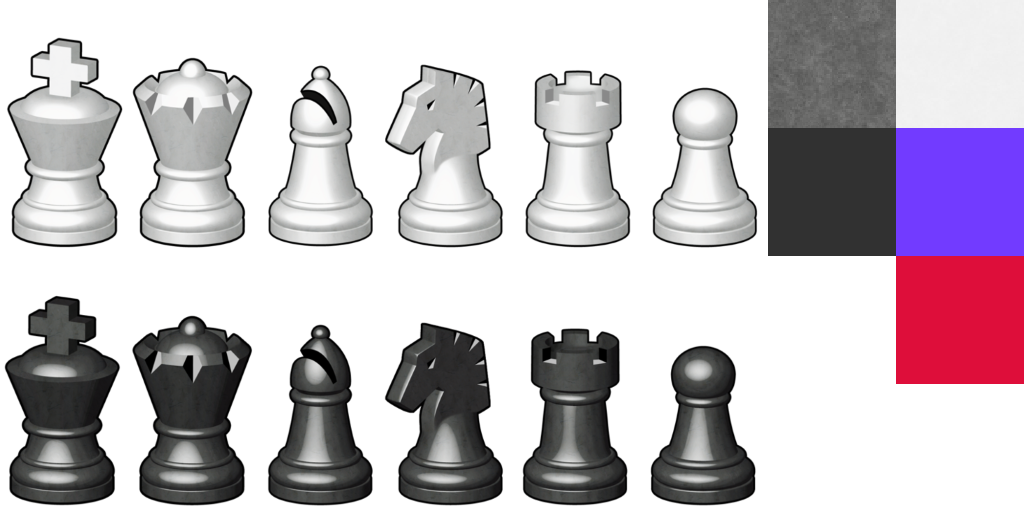
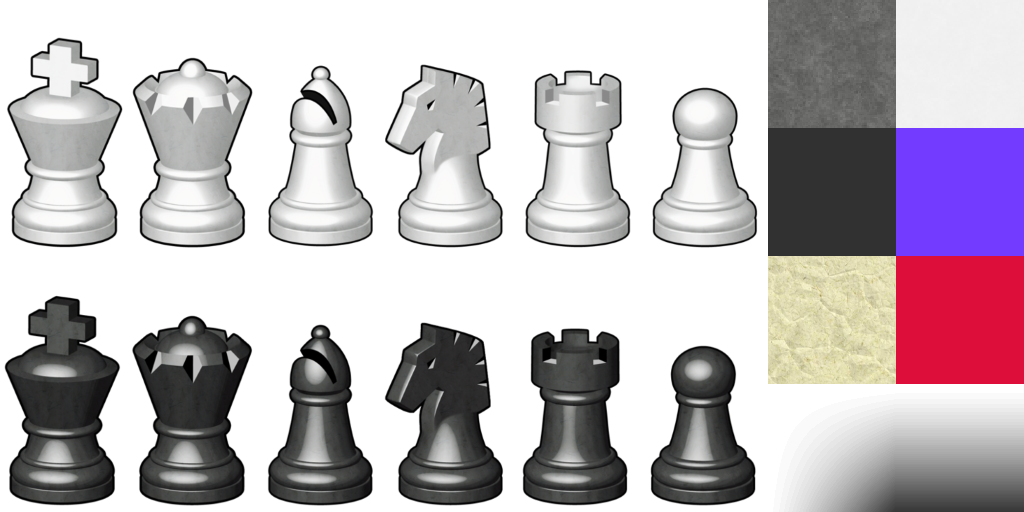
[CHESS-DEMO] added nicer background

Changed region(s): [[0.75, 0.7812, 1.0, 1.0], [0.75, 0.5, 0.875, 0.75]]

diff --git a/core/src/de/samdev/absgdx/example/chessgame/ChessTile.java b/core/src/de/samdev/absgdx/example/chessgame/ChessTile.java
@@ -9,12 +9,14 @@ public class ChessTile extends StaticTile {
 	public ChessLayer clayer;
 	private final int boardX;
 	private final int boardY;
+	private final int type;
 	
 	public ChessTile(int type, int bx, int by) {
 		super(Textures.tex_chess_tiles[type]);
 		
 		this.boardX = bx;
 		this.boardY = by;
+		this.type = type;
 	}
 
 	@Override
@@ -27,5 +29,24 @@ public class ChessTile extends StaticTile {
 			t.onBaseClicked();
 		else
 			clayer.selection = null;
+	}
+	
+	@Override
+	public float getTextureRotation() {
+		if (type < 2) return 0;
+		
+		if (type == 6) {
+			if (boardX < 0 && boardY < 0) return 90;
+			if (boardX > 0 && boardY < 0) return 180;
+			if (boardX < 0 && boardY > 0) return 0;
+			if (boardX > 0 && boardY > 0) return 270;
+		} else if (type == 7){
+			if (boardX >= 0 && boardY < 0 ) return 180;
+			if (boardX < 0  && boardY >= 0) return 90;
+			if (boardX < 8  && boardY > 7 ) return 0;
+			if (boardX > 7  && boardY < 8 ) return 270;
+		}
+		
+		throw new RuntimeException();
 	}
 }

diff --git a/core/src/de/samdev/absgdx/example/Textures.java b/core/src/de/samdev/absgdx/example/Textures.java
@@ -185,14 +185,17 @@ public final class Textures {
 		tex_gui_progressbar[2] = new TextureRegion(tex_gui, 95, 64, 1, 1);
 		tex_gui_progressbar[3] = new TextureRegion(tex_gui, 98, 64, 1, 1);
 		tex_gui_progressbar[4] = new TextureRegion(tex_gui, 64, 78, 59, 30);
-		
+
 		tex_chess_tiles = new TextureRegion[]
 		{
 			TextureHelper.loadSingleTile(texchess, 6, 0, 128, 128), 
 			TextureHelper.loadSingleTile(texchess, 7, 0, 128, 128), 
 			TextureHelper.loadSingleTile(texchess, 6, 1, 128, 128),
 			TextureHelper.loadSingleTile(texchess, 7, 1, 128, 128),
+			TextureHelper.loadSingleTile(texchess, 6, 2, 128, 128),
 			TextureHelper.loadSingleTile(texchess, 7, 2, 128, 128),
+			TextureHelper.loadSingleTile(texchess, 6, 3, 128, 128),
+			TextureHelper.loadSingleTile(texchess, 7, 3, 128, 128),
 		};
 		tex_chess_figures = TextureHelper.load2DArray(texchess, 128, 256);
 	}

diff --git a/core/src/de/samdev/absgdx/example/chessgame/ChessLayer.java b/core/src/de/samdev/absgdx/example/chessgame/ChessLayer.java
@@ -65,7 +65,7 @@ public class ChessLayer extends GameLayer {
 		
 		for (int x = 0; x < 10; x++) {
 			for (int y = 0; y < 10; y++) {
-				if ((x%9) * (y%9) == 0) tm.setTile(x, y, new ChessTile(2, x-1, y-1));
+				if ((x%9) * (y%9) == 0) tm.setTile(x, y, new ChessTile((x%9 == y%9)?6:7, x-1, y-1));
 				else tm.setTile(x, y, new ChessTile((x%2) ^ (y%2), x-1, y-1));
 			}
 		}
@@ -116,7 +116,7 @@ public class ChessLayer extends GameLayer {
 		addPiece(new ChessPawn(1, 6, 6));
 		addPiece(new ChessPawn(1, 7, 6));
 		
-		addBackground(new RepeatingBackground(Textures.tex_chess_tiles[2], 1));
+		addBackground(new RepeatingBackground(Textures.tex_chess_tiles[4], 128));
 	}
 
 	private void addPiece(ChessPiece chessPiece) {
@@ -187,6 +187,8 @@ public class ChessLayer extends GameLayer {
 				return;
 			}
 		}
+		
+		System.out.println("CHECKMATE");
 	}
 
 }

diff --git a/absGDX-framework/src/de/samdev/absgdx/framework/map/background/RepeatingBackground.java b/absGDX-framework/src/de/samdev/absgdx/framework/map/background/RepeatingBackground.java
@@ -41,9 +41,12 @@ public class RepeatingBackground extends MapBackground {
 
 	@Override
 	public void draw(SpriteBatch sbatch, Vector2 map_offset, TileMap map, Rectangle visible) {
-		for (int x = (int)map_offset.x - 1; x < map.width; x+= texture.getRegionWidth() / scale) {
-			for (int y = (int)map_offset.y - 1; y < map.height; y+= texture.getRegionHeight() / scale) {
-				sbatch.draw(texture, x, y, texture.getRegionWidth() / scale, texture.getRegionHeight() / scale);
+		float w = texture.getRegionWidth() / scale;
+		float h = texture.getRegionHeight() / scale;
+		
+		for (int x = (int)(visible.x - 1); x < visible.x + visible.width + w; x += w) {
+			for (int y = (int)(visible.y - 1); y < visible.y + visible.height + h ; y += h) {
+				sbatch.draw(texture, x, y, w, h);
 			}
 		}
 	}

diff --git a/core/src/de/samdev/absgdx/example/chessgame/piece/ChessPawn.java b/core/src/de/samdev/absgdx/example/chessgame/piece/ChessPawn.java
@@ -23,7 +23,7 @@ public class ChessPawn extends ChessPiece {
 		if (isValidMove(new Vector2i(0, dir), ChessMoveType.MOVE, simple)) 
 			moves.add(new Vector2i(0, dir));
 		
-		if (isValidMove(new Vector2i(0, dir), ChessMoveType.MOVE, simple) && baseline && isValidMove(new Vector2i(0, 2*dir), ChessMoveType.MOVE, simple)) 
+		if (isValidMove(new Vector2i(0, dir), ChessMoveType.MOVE, true) && baseline && isValidMove(new Vector2i(0, 2*dir), ChessMoveType.MOVE, simple)) 
 			moves.add(new Vector2i(0, 2*dir));
 		
 		if (isValidMove(new Vector2i(+1, dir), ChessMoveType.KILL, simple)) moves.add(new Vector2i(+1, dir));
